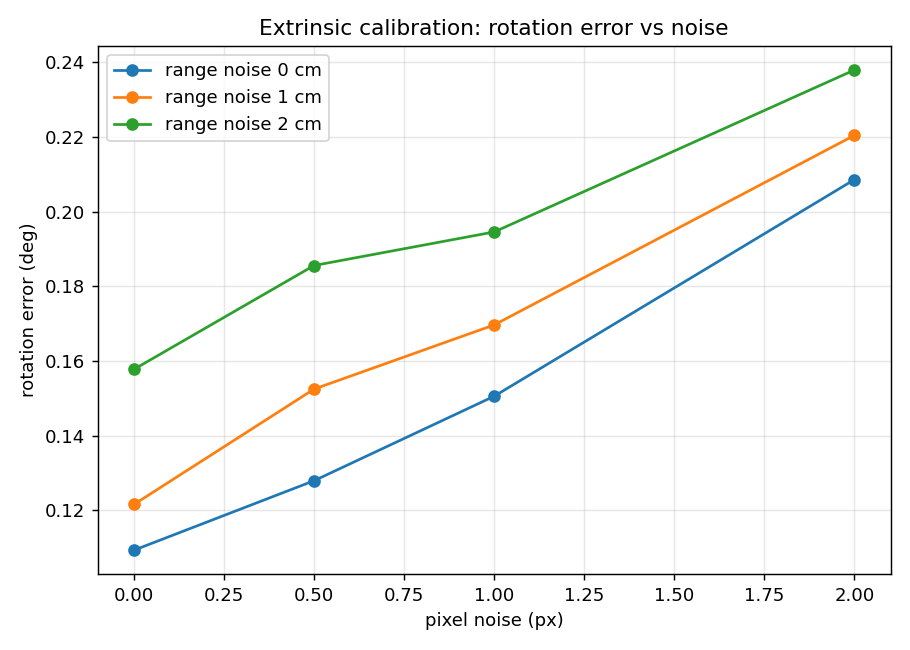
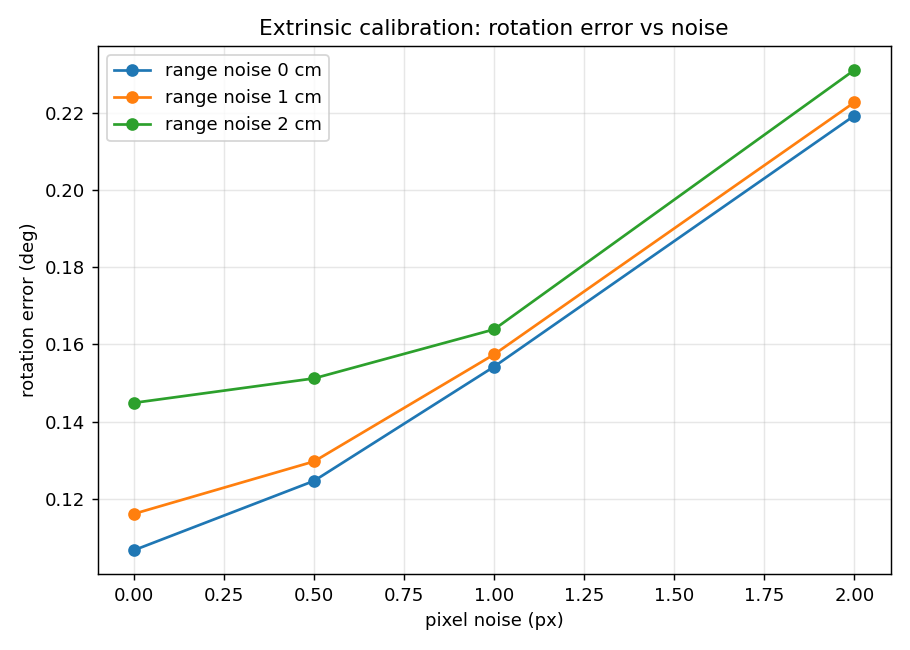
fix: 修复评审意见（extrinsics 改为 JSON 对象 + 蒙特卡洛口径统一为 200 次）
- calibration_node.py: extrinsics 字段由转义字符串改为 JSON 对象，消费端直接读 rvec/t
- project_cloud.py: 新增 --trials 参数（默认 200），替换硬编码的 60，与 sweep_*.py、文档、README 口径一致
- 重新生成 noise_sweep.png / views_sweep.png（200 次蒙特卡洛，与文档 6.2/6.3 表格数值一致）
- README.md: 100 次 → 200 次，补充噪声敏感性的蒙特卡洛次数说明
- docs: 话题字段说明补充嵌套结构；排错小节改用 ros2 launch 参数写法

diff --git a/src/ground/lidar_camera_calibration/lidar_camera_calibration/project_cloud.py b/src/ground/lidar_camera_calibration/lidar_camera_calibration/project_cloud.py
@@ -85,6 +85,7 @@ def main(argv=None) -> int:
     p.add_argument('--views', type=int, default=3)
     p.add_argument('--pixel-noise', type=float, default=1.0)
     p.add_argument('--range-noise', type=float, default=0.01)
+    p.add_argument('--trials', type=int, default=200)
     p.add_argument('--seed', type=int, default=0)
     ns = p.parse_args(sys.argv[1:] if argv is None else argv)
 
@@ -105,13 +106,13 @@ def main(argv=None) -> int:
 
     # 2) 噪声曲线
     from .calibration_core import noise_sweep, views_sweep
-    noise_rows = noise_sweep(trials=60, views=ns.views)
+    noise_rows = noise_sweep(trials=ns.trials, views=ns.views)
     noise_path = os.path.join(ns.out_dir, 'noise_sweep.png')
     _plot_noise(noise_rows, noise_path)
     print('噪声曲线: %s' % noise_path)
 
     # 3) 摆位次数曲线
-    view_rows = views_sweep(trials=60)
+    view_rows = views_sweep(trials=ns.trials)
     views_path = os.path.join(ns.out_dir, 'views_sweep.png')
     _plot_views(view_rows, views_path)
     print('摆位曲线: %s' % views_path)

diff --git a/src/ground/lidar_camera_calibration/lidar_camera_calibration/calibration_node.py b/src/ground/lidar_camera_calibration/lidar_camera_calibration/calibration_node.py
@@ -128,10 +128,11 @@ class LidarCameraCalibrationNode(Node):
         self.get_logger().info(
             '标定完成: 旋转误差 %.3f°，平移误差 %.4f m，重投影 RMSE %.3f px'
             % (res.rot_error_deg, res.trans_error_m, res.rmse_px))
-        self.get_logger().info('估计外参: %s' % matrix_to_text(res.R_est, res.t_est))
+        ext_text = matrix_to_text(res.R_est, res.t_est)
+        self.get_logger().info('估计外参: %s' % ext_text)
 
         payload = {
-            'extrinsics': matrix_to_text(res.R_est, res.t_est),
+            'extrinsics': json.loads(ext_text),
             'rot_error_deg': round(res.rot_error_deg, 4),
             'trans_error_m': round(res.trans_error_m, 5),
             'rmse_px': round(res.rmse_px, 4),

diff --git a/docs/ground/lidar_camera_calibration.md b/docs/ground/lidar_camera_calibration.md
@@ -83,7 +83,7 @@ $$
 
 | 话题 | 类型 | 说明 |
 | --- | --- | --- |
-| `/lidar_camera_calibration/extrinsics` | `std_msgs/String` | JSON：`rvec`、`t`、旋转/平移误差、重投影 RMSE、是否使用 `/camera_info` |
+| `/lidar_camera_calibration/extrinsics` | `std_msgs/String` | JSON 对象：`extrinsics`（内含 `rvec`、`t`、`frame`）、旋转/平移误差、重投影 RMSE、是否使用 `/camera_info` |
 
 ## 5. 运行步骤
 
@@ -202,7 +202,7 @@ ros2 topic pub -1 /camera_info sensor_msgs/msg/CameraInfo \
 
 1. `ros2 topic list | grep camera_info` 确认话题存在；
 2. `ros2 topic info <topic>` 确认类型是 `sensor_msgs/msg/CameraInfo`；
-3. 若相机内参不在 `/camera_info`，用 `-p camera_info_topic:=/your/topic` 指定。
+3. 若相机内参不在 `/camera_info`，用 `ros2 launch lidar_camera_calibration main.launch.py camera_info_topic:=/your/topic` 指定。
 
 ### 7.3 `ModuleNotFoundError: No module named 'lidar_camera_calibration'`
 

diff --git a/src/ground/lidar_camera_calibration/README.md b/src/ground/lidar_camera_calibration/README.md
@@ -69,10 +69,10 @@ python3 -m lidar_camera_calibration.run_calibration --views 3
 | 平移误差 | 4.6 mm |
 | 重投影 RMSE | 2.35 px |
 
-摆位次数扫描（100 次蒙特卡洛中位数）：1 → 2.41°／4.2 cm，3 → 0.15°／3.2 mm，
-6 → 0.10°／2.1 mm。**单板共面时误差显著变大**，这是本模块最想说明的现象。
+摆位次数扫描（200 次蒙特卡洛中位数）：1 → 2.435°／4.28 cm，3 → 0.157°／3.2 mm，
+6 → 0.096°／2.1 mm。**单板共面时误差显著变大**，这是本模块最想说明的现象。
 
-噪声敏感性（3 摆位）：0 px + 0 cm → 0.11°／2.1 mm；2 px + 2 cm → 0.23°／4.8 mm。
+噪声敏感性（3 摆位，200 次中位数）：0 px + 0 cm → 0.107°／2.1 mm；2 px + 2 cm → 0.231°／4.8 mm。
 
 详细原理、参数与排错见
 [docs/ground/lidar_camera_calibration.md](../../../docs/ground/lidar_camera_calibration.md)。
